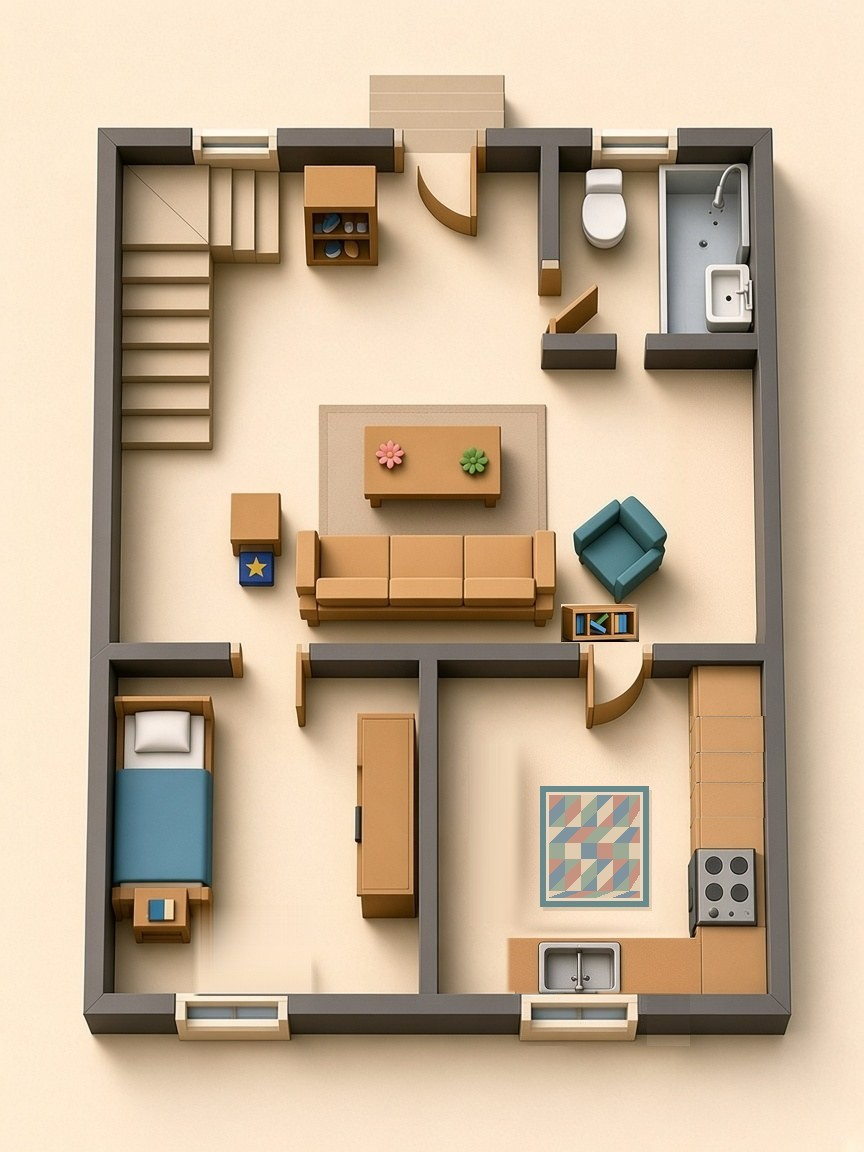
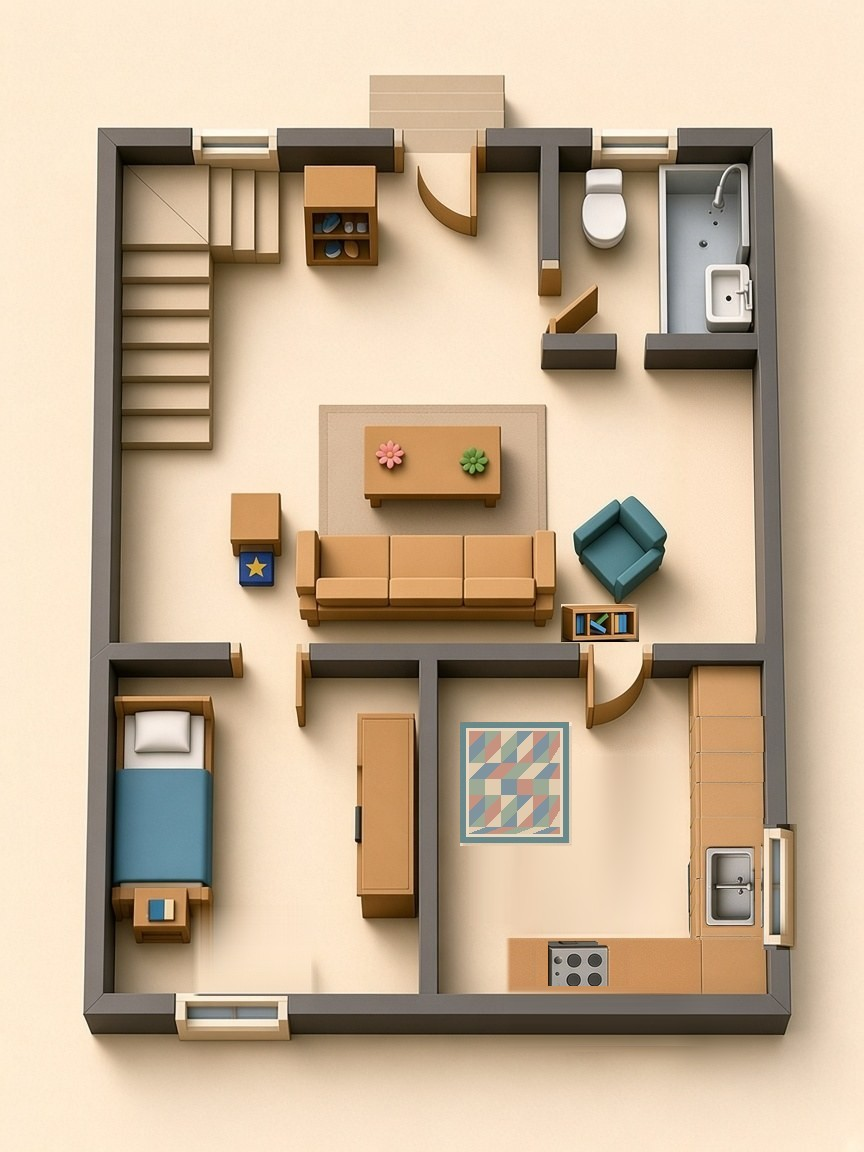
nes v0.6.35: kitchen seen from its door has the window on the left - kitchen art mirrored, stove and sink swapped on the floor-1 map, floor-1 and floor-2 map cleanup (cutscene 1.0.2, event-01 1.0.10)

Changed region(s): [[0.5312, 0.625, 0.9375, 0.9062]]

diff --git a/games/never-ending-story/src/modules/cutscene/registry.ts b/games/never-ending-story/src/modules/cutscene/registry.ts
@@ -49,9 +49,9 @@ export const ARTWORKS: Artwork[] = [
     file: 'house-map.jpg',
     usedIn: ['prologue', 'event-01', 'jigsaw'],
     characterIds: [],
-    prompt: `${STYLE} Top-down clay miniature floor plan of the ground floor of Grandma's modern two-storey house on cream paper, no labels. Top of the image is the front: front steps and door in the middle of the top wall; front strip with the staircase (top-left), entrance hall with shoe rack (top-middle) and a bathroom (top-right). Full-width living room in the middle with the sofa against its bottom wall facing the entrance, coffee table and rug in front, teal armchair to the right with a low bookshelf against the bottom wall between the sofa and the kitchen door, side table and blue star box to the left. Back: Grandma's bedroom bottom-left (bed, wardrobe, nothing under the window; the photo boxes live in the upstairs study), kitchen bottom-right entered from a door at the right of its top wall (L counter along the right wall with the stove and along the bottom wall with the sink under a window just left of centre, patterned rug in the middle, no dining table). Used as the house plan and as the jigsaw photo.`,
+    prompt: `${STYLE} Top-down clay miniature floor plan of the ground floor of Grandma's modern two-storey house on cream paper, no labels. Top of the image is the front: front steps and door in the middle of the top wall; front strip with the staircase (top-left), entrance hall with shoe rack (top-middle) and a bathroom (top-right). Full-width living room in the middle with the sofa against its bottom wall facing the entrance, coffee table and rug in front, teal armchair to the right with a low bookshelf against the bottom wall between the sofa and the kitchen door, side table and blue star box to the left. Back: Grandma's bedroom bottom-left (bed, wardrobe, nothing under the window; the photo boxes live in the upstairs study), kitchen bottom-right entered from a door at the right of its top wall (L counter along the right wall with the sink under a window and along the bottom wall with the stove left of centre, patterned rug near the door on the left, no dining table). Used as the house plan and as the jigsaw photo.`,
     negative: `${NEGATIVE}, text, labels, letters`,
-    styleNotes: `Generated 2026-11-22 for house v2 phase 1 (docs/design/house-v2-proposal.md). The living-room camera stands at the entrance looking down the plan, so the kitchen is on the left of living-wide.jpg and the bedroom door on the right. Furniture follows each room camera (cutscene 1.0.2): living-wide, study-wide and kitchen-wide all look down the plan from their doors, so scene-left is plan-right; kitchen and living bookshelf were edited by hand on 2026-11-22 to match, and the bedroom boxes were removed when the study moved upstairs (house v2 phase 2). The kitchen plan keeps the stove on the right wall and the sink under the bottom window; kitchen-wide.jpg was mirrored on 2026-11-22 at the owner's request. Keep the room footprint: the deduction map zones in event-core FlowView depend on it. ${sheet}`,
+    styleNotes: `Generated 2026-11-22 for house v2 phase 1 (docs/design/house-v2-proposal.md). The living-room camera stands at the entrance looking down the plan, so the kitchen is on the left of living-wide.jpg and the bedroom door on the right. Furniture follows each room camera (cutscene 1.0.2): living-wide, study-wide and kitchen-wide all look down the plan from their doors, so scene-left is plan-right; kitchen and living bookshelf were edited by hand on 2026-11-22 to match, and the bedroom boxes were removed when the study moved upstairs (house v2 phase 2). Owner rule (2026-11-22): looking into the kitchen from its door the window is on the left and Grandma's bedroom side on the right, so kitchen-wide.jpg and kitchen-close.jpg are mirrored and the plan has the sink and window on the right wall and the stove on the bottom counter (stove and sink swapped by hand on the plan, owner request). Keep the room footprint: the deduction map zones in event-core FlowView depend on it. ${sheet}`,
     promptSource: 'original',
     version: CUTSCENE_VERSION,
     order: 70,

diff --git a/games/never-ending-story/src/modules/cutscene/GDD.md b/games/never-ending-story/src/modules/cutscene/GDD.md
@@ -54,6 +54,6 @@ core >=0.6.13, character ^1.0.0 ผู้ใช้: โปรล็อก, event
 ## 13. Changelog (ผูกกับเวอร์ชันโมดูล)
 | เวอร์ชัน | แอป | การเปลี่ยนแปลง |
 |---|---|---|
-| 1.0.2 | 0.6.35 | `cutscene-01-p2.jpg` ช่องล่าง: หนูกอดย่ามะลิ (เดิมกอดแม่) ที่ประตูหน้าบ้าน ชุดและผมย่าตรงกับช่องกลาง ช่องบนและกลางคงเดิมแบบไม่บีบอัดซ้ำ `case-01.p2` เหลือตัวละคร grandma, player และแก้ `house-map.jpg` ให้ตรงมุมกล้องของแต่ละห้อง (กล้องยืนที่ประตูมองลงล่างของแผนที่ ซ้ายภาพจึงเป็นขวาแผนที่): ครัวเอาโต๊ะกินข้าวออก เคาน์เตอร์รูปตัว L ชิดผนังขวา (เตา) กับผนังล่าง (ซิงก์ใต้หน้าต่างค่อนซ้าย) พรมลายกลางห้อง ห้องนอนย่าสลับกล่องเป็นกล่องเหลืองซ้าย กล่องดาวขวา ห้องนั่งเล่นย้ายชั้นหนังสือจากผนังขวาไปชิดผนังล่างข้างโซฟา ผังห้องเดิม โซนแผนที่และจุดแตะไม่เปลี่ยน เพิ่ม `house-map-2f.jpg` แผนผังชั้น 2 (ห้องทำงานเหนือครัว ห้องลุงเมฆกับป้า) เอากล่องออกจากห้องนอนย่าใน `house-map.jpg` และกลับภาพ `kitchen-wide.jpg` กับ `kitchen-close.jpg` ซ้ายขวาตามที่เจ้าของเกมขอ |
+| 1.0.2 | 0.6.35 | `cutscene-01-p2.jpg` ช่องล่าง: หนูกอดย่ามะลิ (เดิมกอดแม่) ที่ประตูหน้าบ้าน ชุดและผมย่าตรงกับช่องกลาง ช่องบนและกลางคงเดิมแบบไม่บีบอัดซ้ำ `case-01.p2` เหลือตัวละคร grandma, player และแก้ `house-map.jpg` ให้ตรงมุมกล้องของแต่ละห้อง (กล้องยืนที่ประตูมองลงล่างของแผนที่ ซ้ายภาพจึงเป็นขวาแผนที่): ครัวเอาโต๊ะกินข้าวออก เคาน์เตอร์รูปตัว L ชิดผนังขวา (ซิงก์ใต้หน้าต่าง) กับผนังล่าง (เตา) พรมลายใกล้ประตูฝั่งซ้าย (สลับเตากับซิงก์ตามที่เจ้าของเกมขอ มองจากประตูครัวหน้าต่างอยู่ซ้าย ฝั่งห้องนอนย่าอยู่ขวา) ห้องนอนย่าสลับกล่องเป็นกล่องเหลืองซ้าย กล่องดาวขวา ห้องนั่งเล่นย้ายชั้นหนังสือจากผนังขวาไปชิดผนังล่างข้างโซฟา ผังห้องเดิม โซนแผนที่และจุดแตะไม่เปลี่ยน เพิ่ม `house-map-2f.jpg` แผนผังชั้น 2 (ห้องทำงานเหนือครัว ห้องลุงเมฆกับป้า) เอากล่องออกจากห้องนอนย่าใน `house-map.jpg` และกลับภาพ `kitchen-wide.jpg` กับ `kitchen-close.jpg` ซ้ายขวาตามที่เจ้าของเกมขอ |
 | 1.0.1 | 0.6.34 | วาด `cutscene-01-p2.jpg` ใหม่เป็นบ้านสมัยใหม่สองชั้นตอนเช้า (เดิมเป็นเรือนไม้ใต้ถุนสูงตอนเย็น) ตัวละครชุดเดิม และวาด `house-map.jpg` ใหม่ ทางเข้าอยู่ด้านบน โซฟาชิดผนังล่างของห้องนั่งเล่น มีบันไดกับห้องน้ำแถวหน้า ห้องซ้ายล่างเป็นห้องนอนย่า สัดส่วน 3:4 เท่าเดิม พรอมต์ของสองภาพนี้เป็น `original` |
 | 1.0.0 | 0.6.13 | ทะเบียนภาพฉากที่ใช้จริง พรอมต์เขียนใหม่จากภาพ |
